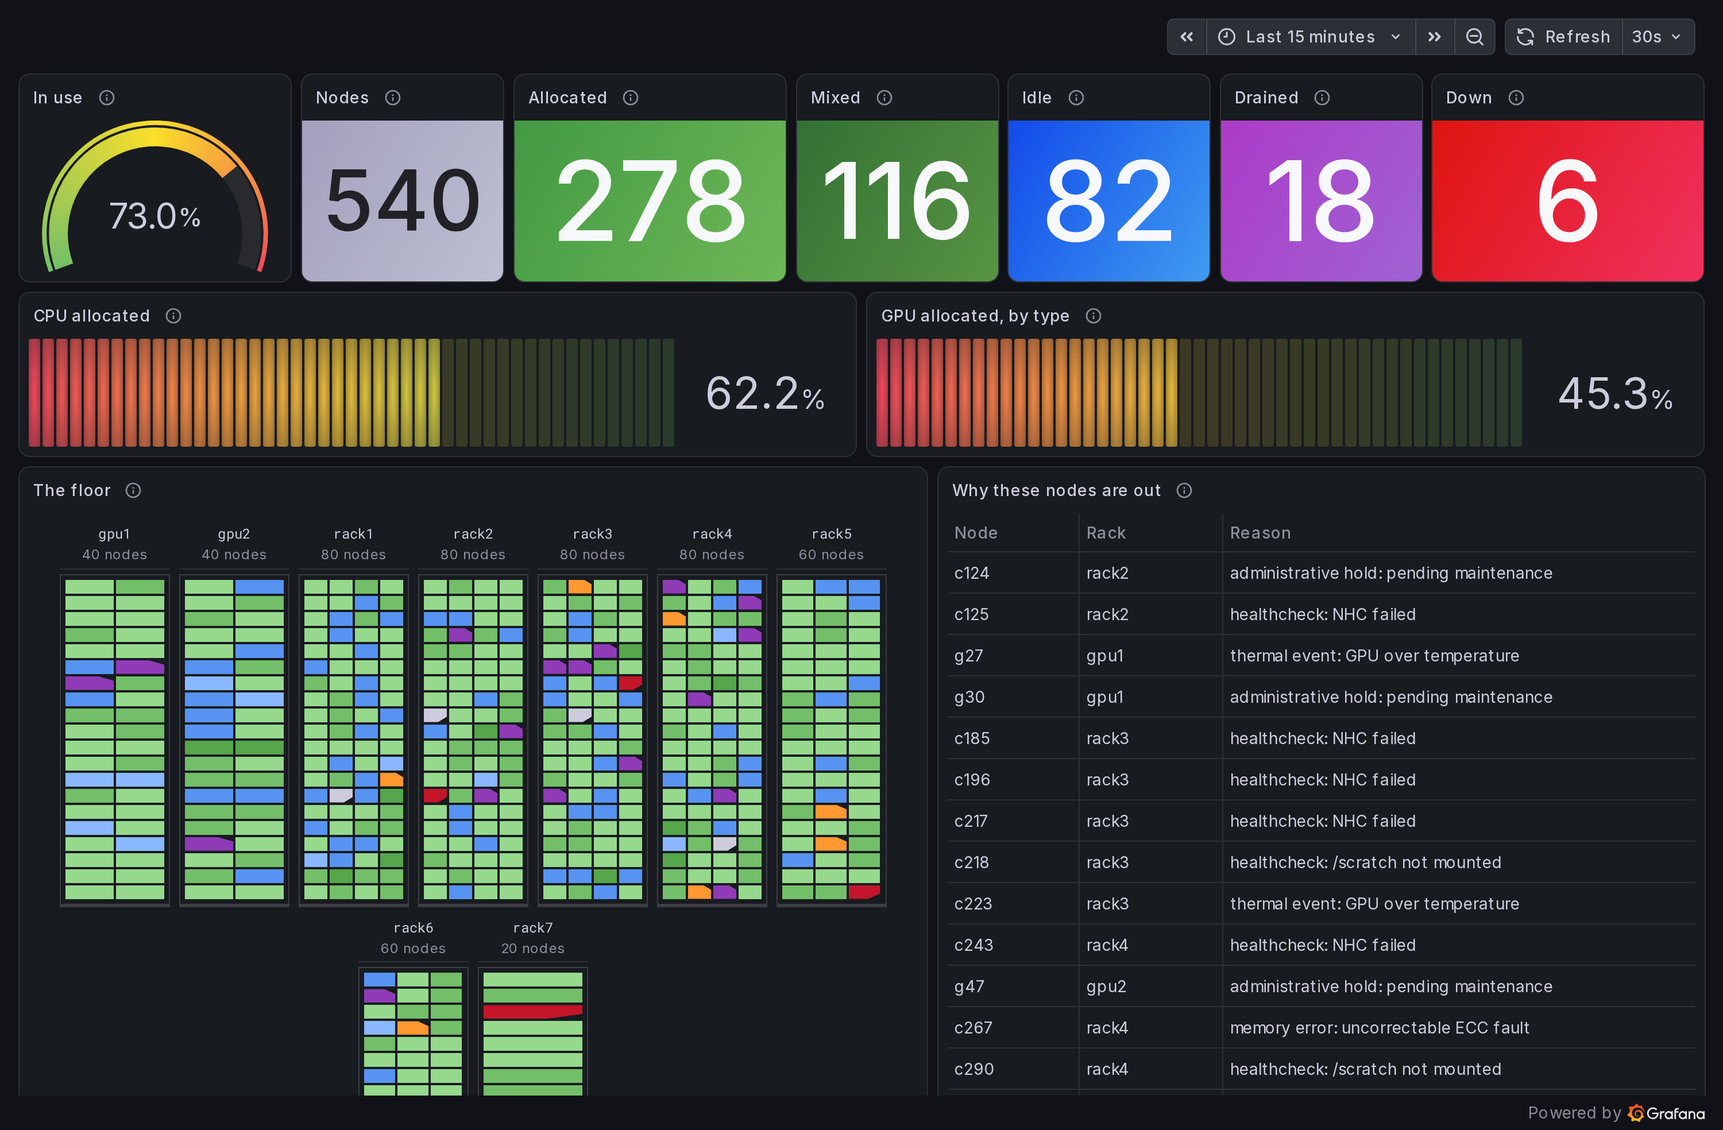
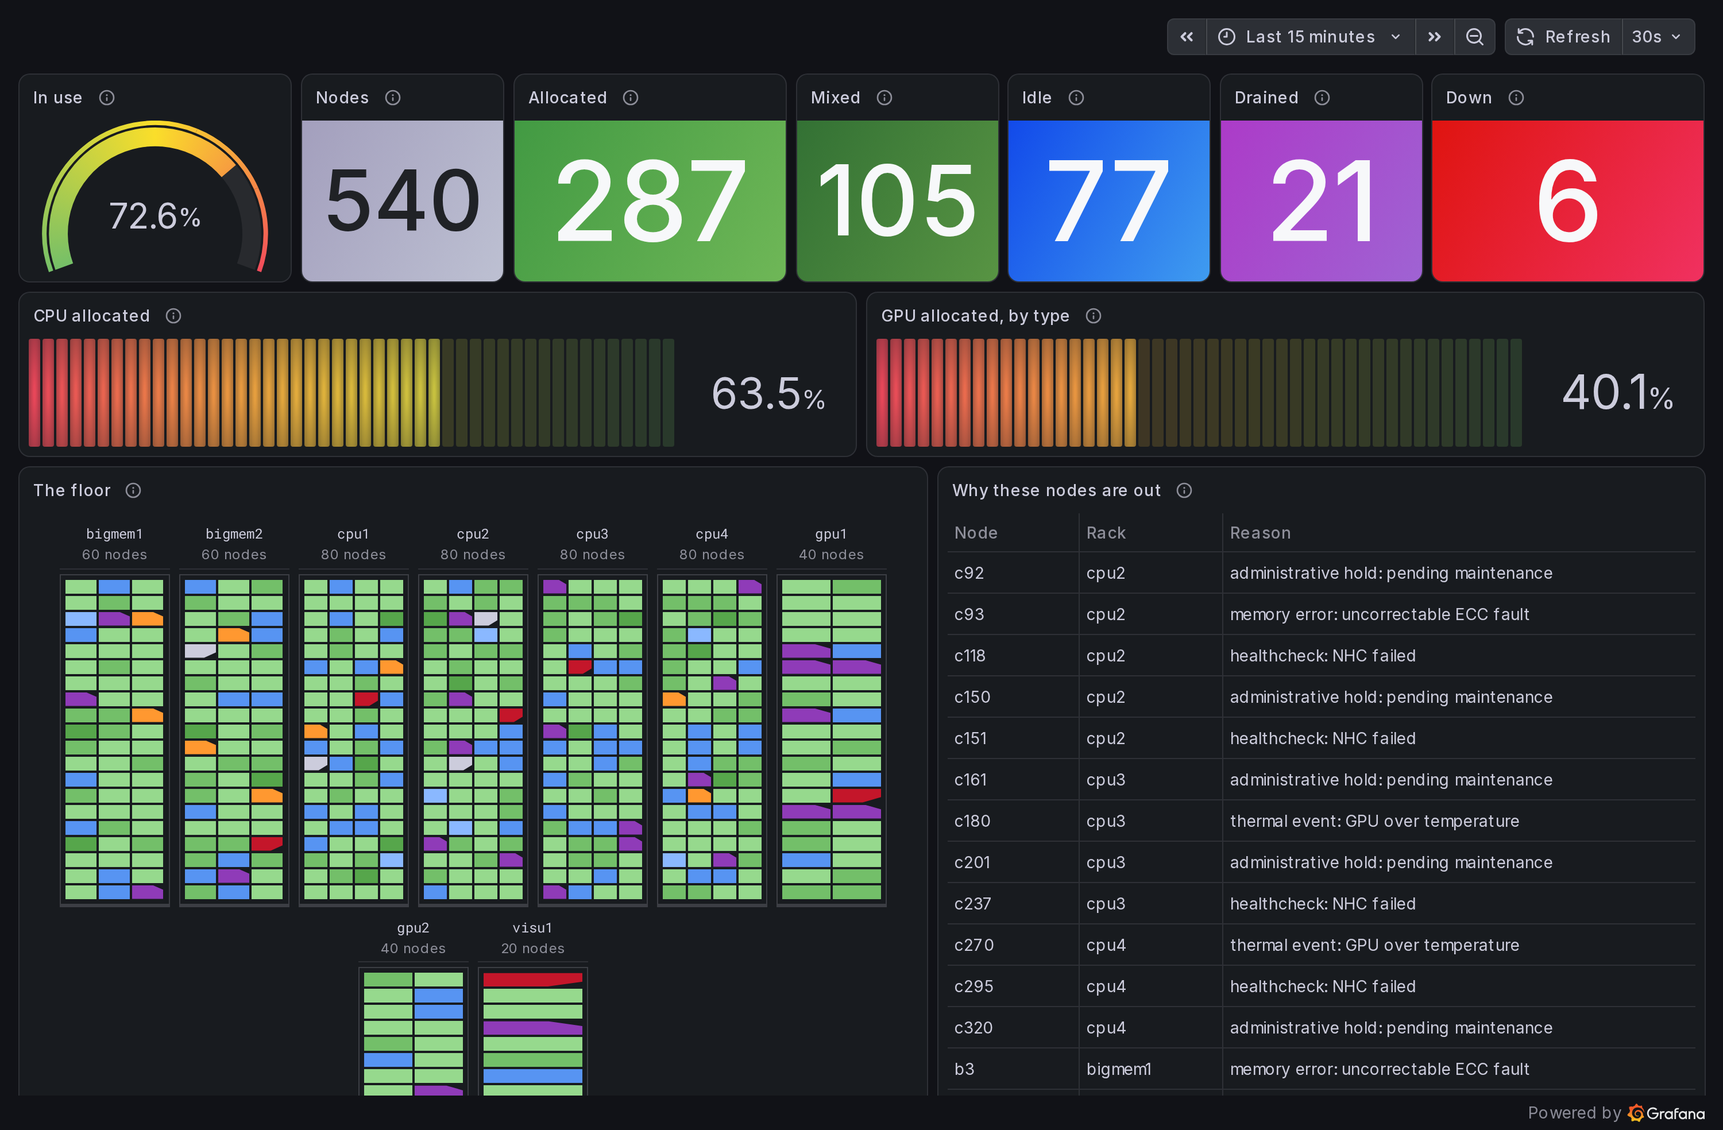
feat(dev): give the fixture four node families, and name its racks for them
The floor had two kinds of node, c and g, and racks called rack1..rack7.
That is not how a floor gets filled: a centre buys one kind of hardware in
bulk and racks it together, and the rack takes the name of what fills it.

Four families now - cpu, bigmem, visu, gpu - each with its own node prefix,
its own share of the cluster and its own hardware, and nine cabinets named
for them: cpu1..cpu4, bigmem1, bigmem2, visu1, gpu1, gpu2. The partitions
follow, so sinfo shows four rather than a cpu/gpu pair.

A family is a share, not a count, so NODES stays the one knob for cluster
size and a smoke test at another total splits the same way. 16:6:1:4 over
540 is exactly 320/120/20/80, which is twenty slots times each cabinet's
blade density.

Named families also make the hardware follow the name, which it did not
before: a bigmem node carries 4 TB against the 512 GB everything else has,
and a visu node carries two GPUs against a gpu node's eight. gpu_used was
drawn from a fixed [2, 4, 8] and would have published eight used out of two
on every working visu node; it is bounded by the node's own count now.

A rack is still a location and not a partition. Four cabinets carry the one
cpu partition, and the panel reads the label racks.txt produces, never the
partition - otherwise rung 1 would be proving a label derivable from data
the panel already has.

Three things the rename found, each a stale value nothing was checking:
[…]

diff --git a/plugins/nodegrid-panel/tests/nodegrid.spec.ts b/plugins/nodegrid-panel/tests/nodegrid.spec.ts
@@ -323,13 +323,13 @@ test.describe('the primary overview dashboard groups by the rack it now has', ()
     const dashboard = await readProvisionedDashboard({ fileName: 'slurm-node-grid.json' });
     await gotoDashboardPage(dashboard);
 
-    await expect(page.getByTestId('node-group-rack1')).toBeVisible({ timeout: 15_000 });
+    await expect(page.getByTestId('node-group-cpu1')).toBeVisible({ timeout: 15_000 });
     await expect(page.getByTestId('node-group-ungrouped')).toHaveCount(0);
   });
 });
 
-test.describe('the utilisation dashboard groups the same six racks on every panel', () => {
-  test('shows all six named racks and drops nothing into ungrouped, on every panel', async ({
+test.describe('the utilisation dashboard groups the same nine racks on every panel', () => {
+  test('shows all nine named racks and drops nothing into ungrouped, on every panel', async ({
     gotoDashboardPage,
     readProvisionedDashboard,
   }) => {
@@ -338,11 +338,11 @@ test.describe('the utilisation dashboard groups the same six racks on every pane
     // ('^(r\\d+)') to the relabelled `rack` label. The colour test above only
     // checks fill behaviour on panels 2 and 4 and would keep passing even if
     // the grouping key were wrong — every panel would just render one
-    // "ungrouped" block instead of six named racks, with nothing failing.
+    // "ungrouped" block instead of nine named racks, with nothing failing.
     const dashboard = await readProvisionedDashboard({ fileName: 'slurm-node-utilisation.json' });
     const dashboardPage = await gotoDashboardPage(dashboard);
 
-    const racks = ['rack1', 'rack2', 'rack3', 'rack4', 'gpu1', 'gpu2'];
+    const racks = ['cpu1', 'cpu2', 'cpu3', 'cpu4', 'bigmem1', 'bigmem2', 'visu1', 'gpu1', 'gpu2'];
     for (const title of ['State', 'CPU occupancy', 'Memory occupancy', 'GPU occupancy']) {
       const grid = await gridIn(dashboardPage, title);
       for (const key of racks) {
@@ -354,10 +354,10 @@ test.describe('the utilisation dashboard groups the same six racks on every pane
 });
 
 test.describe('the three ways to get a topology, proven against the same live data', () => {
-  const racks = ['rack1', 'rack2', 'gpu1'];
+  const racks = ['cpu1', 'cpu2', 'gpu1'];
 
   test('rung 1 groups by a relabelled Prometheus label', async ({ page }) => {
-    await gotoPanelWithData(page, 5, 'rack1');
+    await gotoPanelWithData(page, 5, 'cpu1');
     for (const key of racks) {
       await expect(page.getByTestId(`node-group-${key}`)).toBeVisible();
     }
@@ -372,7 +372,7 @@ test.describe('the three ways to get a topology, proven against the same live da
     //
     // The inventory's dimension is named "zone", not "rack": relabelling
     // already puts a rack label carrying the same three values on query A, so
-    // asserting rack1/rack2/gpu1 here would pass whether or not the join ever
+    // asserting cpu1/cpu2/gpu1 here would pass whether or not the join ever
     // ran. "zone" and aisleA/aisleB/aisleC exist nowhere else in the stack -
     // the only way a group by that name can appear is if the join supplied
     // it.
@@ -384,7 +384,7 @@ test.describe('the three ways to get a topology, proven against the same live da
   });
 
   test('rung 3 groups by a range table held in a dashboard variable', async ({ page }) => {
-    await gotoPanelWithData(page, 7, 'rack1');
+    await gotoPanelWithData(page, 7, 'cpu1');
     for (const key of racks) {
       await expect(page.getByTestId(`node-group-${key}`)).toBeVisible();
     }
@@ -396,11 +396,11 @@ test.describe('the three ways to get a topology, proven against the same live da
 
 test.describe('the coverage signal, proven by a source that deliberately covers less', () => {
   test('an incomplete range table draws the orphans as unplaced and names a wider label', async ({ page }) => {
-    await gotoPanelWithData(page, 8, 'rack1');
+    await gotoPanelWithData(page, 8, 'cpu1');
 
-    // The table names only rack1: c[1-80] against the full 540-node cluster,
+    // The table names only cpu1: c[1-80] against the full 540-node cluster,
     // so 80 nodes are placed and the other 460 fall outside every range.
-    const placed = page.getByTestId('node-group-rack1');
+    const placed = page.getByTestId('node-group-cpu1');
     await expect(placed).toBeVisible({ timeout: 15_000 });
     await expect.poll(() => placed.locator('[data-testid^="node-cell-"]').count(), { timeout: 15_000 }).toBe(80);
 
@@ -437,7 +437,7 @@ test.describe('a cabinet holds every sled it draws', () => {
     const dashboard = await readProvisionedDashboard({ fileName: 'slurm-node-grid.json' });
     await gotoDashboardPage(dashboard);
 
-    const frame = page.getByTestId('node-group-rack1').getByTestId('rack-frame');
+    const frame = page.getByTestId('node-group-cpu1').getByTestId('rack-frame');
     await expect(frame).toBeVisible({ timeout: 15_000 });
     const cells = frame.locator('[data-testid^="node-cell-"]');
     await expect.poll(() => cells.count(), { timeout: 15_000 }).toBeGreaterThan(0);
@@ -460,7 +460,7 @@ test.describe('blades, against the same live data', () => {
   test('draws each cabinet as many sleds wide as its blade holds', async ({ page }) => {
     // getBoundingClientRect, not toBeVisible: the question is where these
     // cells actually are, and toBeVisible passes for anything mounted.
-    await gotoPanelWithData(page, 9, 'rack1');
+    await gotoPanelWithData(page, 9, 'cpu1');
 
     // Sleds across, not rows down. Row count used to carry this — forty nodes
     // made ten rows at four per blade and twenty at two — but the fixture now
@@ -477,9 +477,9 @@ test.describe('blades, against the same live data', () => {
 
     // Four densities on one floor, which is the whole point of the override
     // table: a single wrong lookup would show up as one of these four.
-    expect(await sledsAcross('rack1')).toBe(4);
-    expect(await sledsAcross('rack5')).toBe(3);
-    expect(await sledsAcross('rack7')).toBe(1);
+    expect(await sledsAcross('cpu1')).toBe(4);
+    expect(await sledsAcross('bigmem1')).toBe(3);
+    expect(await sledsAcross('visu1')).toBe(1);
     expect(await sledsAcross('gpu1')).toBe(2);
   });
 });
@@ -490,7 +490,7 @@ test.describe('cabinet height, against the same live data', () => {
     // deliberately level now — every cabinet declared at twenty slots and
     // full. Panel 10 exists to hold the two declarations apart: twenty slots
     // against twenty-six, over cabinets that both draw twenty rows.
-    await gotoPanelWithData(page, 10, 'rack1');
+    await gotoPanelWithData(page, 10, 'cpu1');
 
     const frame = async (group: string) => {
       const box = await page.getByTestId(`node-group-${group}`).getByTestId('rack-frame').boundingBox();
@@ -498,7 +498,7 @@ test.describe('cabinet height, against the same live data', () => {
       return box!;
     };
 
-    const rack = await frame('rack1');
+    const rack = await frame('cpu1');
     const gpu = await frame('gpu1');
 
     // Twenty slots against twenty-six: the declaration decides the height,
@@ -512,9 +512,9 @@ test.describe('cabinet height, against the same live data', () => {
   });
 
   test('spills what does not fit above the frame, clear of the group header', async ({ page }) => {
-    await gotoPanelWithData(page, 40, 'rack1');
+    await gotoPanelWithData(page, 40, 'cpu1');
 
-    const group = page.getByTestId('node-group-rack1');
+    const group = page.getByTestId('node-group-cpu1');
     const frameBox = await group.getByTestId('rack-frame').boundingBox();
     const bandBox = await group.locator('[data-testid="rack-band"]').boundingBox();
     expect(frameBox).not.toBeNull();
@@ -536,8 +536,8 @@ test.describe('cabinet height, against the same live data', () => {
   });
 
   test('names the cabinet that outgrew its declaration', async ({ page }) => {
-    await gotoPanelWithData(page, 40, 'rack1');
-    await expect(page.getByText('rack1 needs 20 slots but 12 were declared.')).toBeVisible();
+    await gotoPanelWithData(page, 40, 'cpu1');
+    await expect(page.getByText('cpu1 needs 20 slots but 12 were declared.')).toBeVisible();
   });
 
   test('gives the rows the whole content box, with nothing leaking past the padding', async ({ page }) => {

diff --git a/plugins/nodegrid-panel/playwright.config.ts b/plugins/nodegrid-panel/playwright.config.ts
@@ -41,6 +41,16 @@ export default defineConfig<PluginOptions>(baseConfig, {
    * the variable is passed at all.
    */
   retries: 0,
+  /**
+   * Playwright defaults to half the machine's cores, which makes the suite's
+   * reliability a property of who is running it: a CI runner gets two workers
+   * and a development workstation sixteen. At sixteen, against a Grafana and
+   * a Prometheus sharing that same machine, pages time out and a different
+   * handful of tests fails each run — measured at 540 nodes, where a
+   * utilisation dashboard is 2160 cells per load. Four is stable across three
+   * consecutive runs here and CI keeps the two it has always used.
+   */
+  workers: process.env.CI ? 2 : 4,
   use: {
     baseURL: process.env.GRAFANA_URL ?? `http://localhost:${process.env.GRAFANA_PORT ?? 3000}`,
     provisioningRootDir: resolve(__dirname, '../../dev/provisioning'),

diff --git a/dev/synthetic-exporter/serve.py b/dev/synthetic-exporter/serve.py
@@ -42,14 +42,24 @@ from http.server import BaseHTTPRequestHandler, HTTPServer
 RACKS = max(1, int(os.environ.get("RACKS") or "6"))
 NODES_PER_RACK = int(os.environ.get("NODES_PER_RACK") or "0")
 NODES = RACKS * NODES_PER_RACK if NODES_PER_RACK > 0 else int(os.environ.get("NODES") or "540")
-# How many of those carry GPUs, as a count rather than as a share of a
-# partition cycle. The share was the earlier design and it tied two unrelated
-# things together: the cycle's length fixed the ratio, so the cluster total
-# had to stay a multiple of it and the floor plan could not move without
-# rewriting the partition list. The floor plan is the thing that moves.
-GPU_NODES = int(os.environ.get("GPU_NODES") or "80")
-# The partitions the non-gpu nodes rotate through. A gpu node is in "gpu".
-PARTITIONS = (os.environ.get("PARTITIONS") or "cpu,debug").split(",")
+# The cluster's four node families. A family is one kind of hardware bought
+# in bulk, which is how a real floor is filled: a partition name, the prefix
+# its nodes are named with, a share of the cluster, and what one of them is.
+#
+# Share rather than count, so NODES stays the single knob for cluster size: a
+# smoke test at 1080 nodes splits the same way a 540-node one does. The
+# default weights are 16:6:1:4 over 540, which comes out at exactly
+# 320/120/20/80 - four cabinets of eighty quad-blade nodes, two of sixty
+# triples, one of twenty single-node servers and two of forty duos, every
+# cabinet twenty slots and every one full. dev/relabel/racks.txt cuts those
+# names into the racks that hold them.
+FAMILIES = (
+    # partition  prefix  weight  memory MB  gpus
+    ("cpu",      "c",    16,     512_000,   0),
+    ("bigmem",   "b",    6,      4_096_000, 0),
+    ("visu",     "v",    1,      512_000,   2),
+    ("gpu",      "g",    4,      512_000,   8),
+)
 SEED = int(os.environ.get("SEED", "1"))
 
 _KNOWN_PROFILES = ("production", "incident", "showcase")
@@ -100,14 +110,14 @@ PRODUCTION_MODIFIER_WEIGHTS = [("", 92.0)] + [
     (m, 8.0 / 6) for m in ("-", "*", "~", "#", "@", "$")
 ]
 
-# dev/relabel/racks.txt calls c[81-120] "rack3". The exporter itself has no
+# dev/relabel/racks.txt calls c[81-160] "cpu2". The exporter itself has no
 # way to know that: it reads sinfo, which has no concept of a rack, the same
 # reason it has no rack label to publish in the first place. An `incident`
 # that wants to take a whole rack down therefore has to pick the block out by
 # node ordinal, matching that table by hand, rather than by asking the
 # exporter something it structurally cannot answer.
 INCIDENT_DOWN_RACK_FIRST = 81
-INCIDENT_DOWN_RACK_LAST = 120
+INCIDENT_DOWN_RACK_LAST = 160
 
 # A drain storm where forty nodes share one reason reads as a copy-paste
 # artefact, not an incident. Picked per node, deterministically from SEED.
@@ -175,34 +185,51 @@ def _cpus_state(rng, state, total):
     return 0, 0, total
 
 
+def _family_counts(total):
+    """Split `total` across the families by weight, exactly.
+
+    Largest remainder rather than plain rounding: the shares have to add back
+    up to `total` at any cluster size, and a rounding scheme that loses a node
+    would leave it outside every range in racks.txt, which reads on the panel
+    as an orphan rather than as the arithmetic slip it is.
+    """
+    weights = [f[2] for f in FAMILIES]
+    scaled = [total * w / sum(weights) for w in weights]
+    counts = [int(x) for x in scaled]
+    for index in sorted(range(len(FAMILIES)), key=lambda k: scaled[k] - counts[k], reverse=True)[
+        : total - sum(counts)
+    ]:
+        counts[index] += 1
+    return counts
+
+
 def cluster():
     rng = random.Random(SEED)
     nodes = []
-    cpu_count = 0
-    gpu_count = 0
-    # Exactly GPU_NODES of them, spread evenly through the generation order
-    # rather than clumped at one end: a gpu node every NODES/GPU_NODES steps,
-    # placed by integer arithmetic so the count is exact whatever the ratio.
-    gpu_at = {1 + (k * NODES) // GPU_NODES for k in range(GPU_NODES)} if GPU_NODES > 0 else set()
+    # One family at a time, in declaration order, so c1..cN are contiguous and
+    # a range table can name a rack with one hostlist instead of a list.
+    plan = []
+    for family, count in zip(FAMILIES, _family_counts(NODES)):
+        plan.extend([family] * count)
+    seen = {}
     for i in range(1, NODES + 1):
-        parts = ["gpu"] if i in gpu_at else [PARTITIONS[i % len(PARTITIONS)]]
+        partition, prefix, _weight, mem, gpus = plan[i - 1]
+        parts = [partition]
         if i % 7 == 0:
             parts.append("debug")
-        is_gpu = "gpu" in parts
+        is_gpu = gpus > 0
         # Named by family, not by index: c1..cN and g1..gN, counting within
         # each family in generation order. A rack index fed only the name, so
         # once the name no longer needs one there is nothing left to compute.
-        if is_gpu:
-            gpu_count += 1
-            name = "g%d" % gpu_count
-        else:
-            cpu_count += 1
-            name = "c%d" % cpu_count
+        # Counted in a dict, not by rescanning `nodes`: the obvious version
+        # of this line is a linear search inside the loop that builds the list
+        # it searches, which is quadratic in cluster size for no reason.
+        seen[prefix] = seen.get(prefix, 0) + 1
+        name = "%s%d" % (prefix, seen[prefix])
 
         state = _pick_state(rng, name)
         cpus = 128
         cpu_alloc, cpu_idle, cpu_other = _cpus_state(rng, state, cpus)
-        mem = 512000
         nodes.append({
             "name": name,
             "state": state,
@@ -216,8 +243,11 @@ def cluster():
             # holding roughly half its memory, and a node holding none is
             # holding none.
             "mem_alloc": mem * cpu_alloc // cpus,
-            "gpus": 8 if is_gpu else 0,
-            "gpu_used": (rng.choice([2, 4, 8]) if cpu_alloc > 0 else 0) if is_gpu else 0,
+            "gpus": gpus,
+            # Never more than the node has: a visu node carries two, a gpu
+            # node eight, and a fixed choice of [2, 4, 8] would have published
+            # eight used out of two on every visu node that was working.
+            "gpu_used": (rng.randint(1, gpus) if cpu_alloc > 0 else 0) if is_gpu else 0,
             "drained": state.startswith("drain"),
             "drain_reason": rng.choice(DRAIN_REASONS),
         })

diff --git a/dev/README.md b/dev/README.md
@@ -107,7 +107,7 @@ count. Three values, `production` the default:
 | `SYNTH_PROFILE` | What it is |
 |---|---|
 | `production` (default) | A cluster that is working: weighted mostly `allocated` and `mixed`, real idle capacity behind it, and only a sliver of `drained`, `down`, `maint` and `fail`, percentages measured against a real cluster, not invented. |
-| `incident` | The same weighted shape, except every node in `rack3` (`c81`..`c120`, the block `dev/relabel/racks.txt` names that way) is `down`, and roughly 15% of the remaining nodes are `drained` or `draining`. |
+| `incident` | The same weighted shape, except every node in `cpu2` (`c81`..`c160`, the block `dev/relabel/racks.txt` names that way) is `down`, and roughly 15% of the remaining nodes are `drained` or `draining`. |
 | `showcase` | A uniform draw over every base state and every one of the nine state modifiers, including states a 20-node docker cluster would otherwise rarely reach, like `blocked` and `perfctrs`. It is the shape to reach for when a dashboard has to show every colour the panel can paint at once. |
 
 An unrecognised value falls back to `production` and says so on the
@@ -177,8 +177,10 @@ covers what each of the three rungs actually needs from you.
 
 ## Three ways to a topology, and how each one is wired
 
-`dev/relabel/racks.txt` gives this dev cluster a real `rack` label: nine groups
-covering `rack1..rack7` over `c1..c460` and `gpu1..gpu2` over `g1..g80`, by
+`dev/relabel/racks.txt` gives this dev cluster a real `rack` label: nine groups,
+one per cabinet, named for the node family that fills it — `cpu1..cpu4` over
+`c1..c320`, `bigmem1..bigmem2` over `b1..b120`, `visu1` over `v1..v20` and
+`gpu1..gpu2` over `g1..g80` — by
 turning the same table into Prometheus relabelling (`make scrape`, run by
 `make up`) that also pastes into the panel's Grouping > Ranges option. That
 one file is the input to two of the three routes below; **grouping and
@@ -198,10 +200,10 @@ The dashboard's eleven panels, in provisioned order:
 | 5 | Rung 1, label, against live Prometheus | Label `rack` | Prometheus, relabelled by `make scrape` |
 | 6 | Rung 2, join, against an inventory the metrics do not carry | Label `zone` | Prometheus (query A) joined to a CSV inventory (query B) |
 | 7 | Rung 3, ranges, against live Prometheus | Ranges, `$racks` dashboard variable | Prometheus |
-| 8 | Deliberately incomplete, a range table covering one rack of nine | Ranges, `rack1: c[1-80]` | Prometheus, the full 540-node cluster |
-| 9 | Blades, a mixed floor | Label `rack` | Prometheus, four densities declared per group - quad, triple, single, duo - every cabinet at twenty slots |
-| 10 | Two declared heights, one floor | Label `rack` | Prometheus, same blades, `rack[1-7]: 20` against `gpu[1-2]: 26` |
-| 40 | A declaration too small for what arrived | Label `rack`, `rack1` declared at twelve slots | Prometheus, the full 540-node cluster |
+| 8 | Deliberately incomplete, a range table covering one rack of nine | Ranges, `cpu1: c[1-80]` | Prometheus, the full 540-node cluster |
+| 9 | Blades, a mixed floor | Label `rack` | Prometheus, four densities declared per group - `cpu` quad, `bigmem` triple, `visu` single, `gpu` duo - every cabinet at twenty slots |
+| 10 | Two declared heights, one floor | Label `rack` | Prometheus, same blades, the panel-wide twenty slots against `gpu[1-2]: 26` |
+| 40 | A declaration too small for what arrived | Label `rack`, `cpu1` declared at twelve slots | Prometheus, the full 540-node cluster |
 
 Panels 1-4 are the same 32-node CSV, grouped four ways, and need nothing
 running but Grafana. The rest read this dev cluster's live Prometheus:
@@ -246,7 +248,7 @@ reading of those docs:
    with no warning to explain why (ingest only warns about a query it can
    see and cannot read; a query it never receives is silent).
 5. **The inventory's column is `zone`, not `rack`.** The first working version
-   named it `rack` with the same `rack1`/`rack2`/`gpu1` values relabelling
+   named it `rack` with the same `cpu1`/`cpu2`/`gpu1` values relabelling
    already carries on query A. Both frames agreed, so the panel rendered
    identically whichever one Grafana's join happened to keep, and nothing
    short of reading `joinByField`'s source said which that was. The CSV now
@@ -288,7 +290,7 @@ some label would place strictly more nodes than the active source does. Every
 demo above covers every node it queries, so that line never fires on any of
 them, and proving nothing is not the same as the signal working. One further
 panel groups the *entire* 540-node cluster by a range table naming only
-`rack1: c[1-80]`: 80 nodes land in `rack1`, the other 460 match no range and
+`cpu1: c[1-80]`: 80 nodes land in `cpu1`, the other 460 match no range and
 draw under `ungrouped`, dashed and marked unplaced, and the warnings strip
 both names the 460 and reports that `rack` would cover all 540. Deliberately
 incomplete, not a broken panel; its own description says so.
